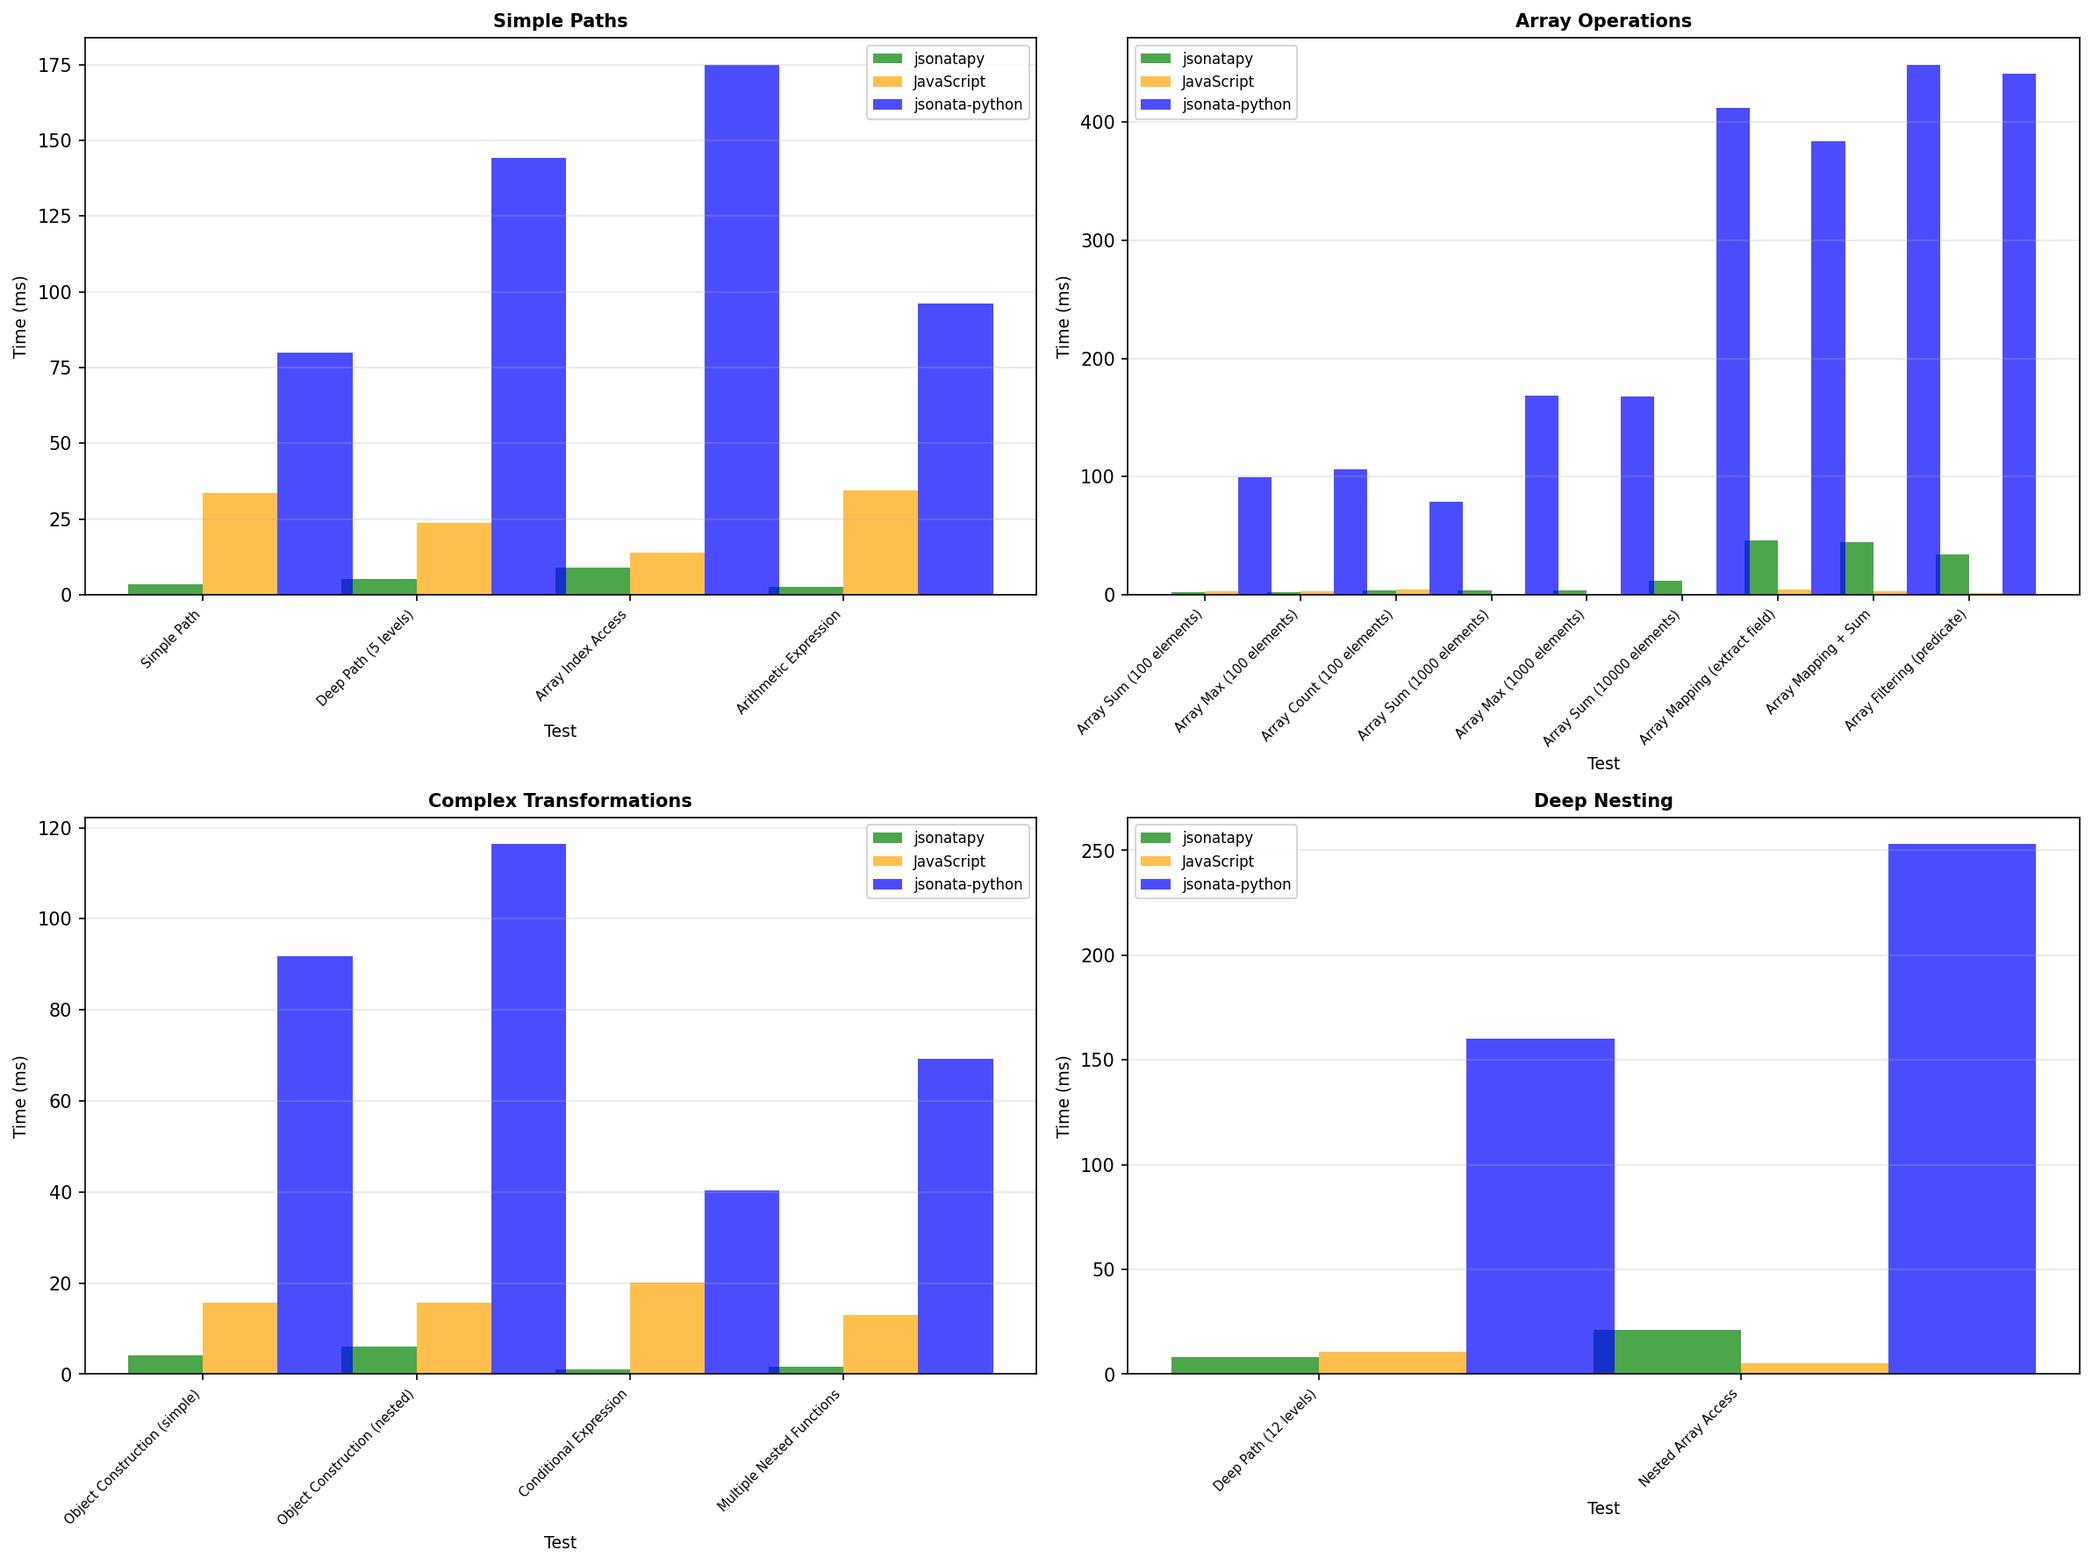
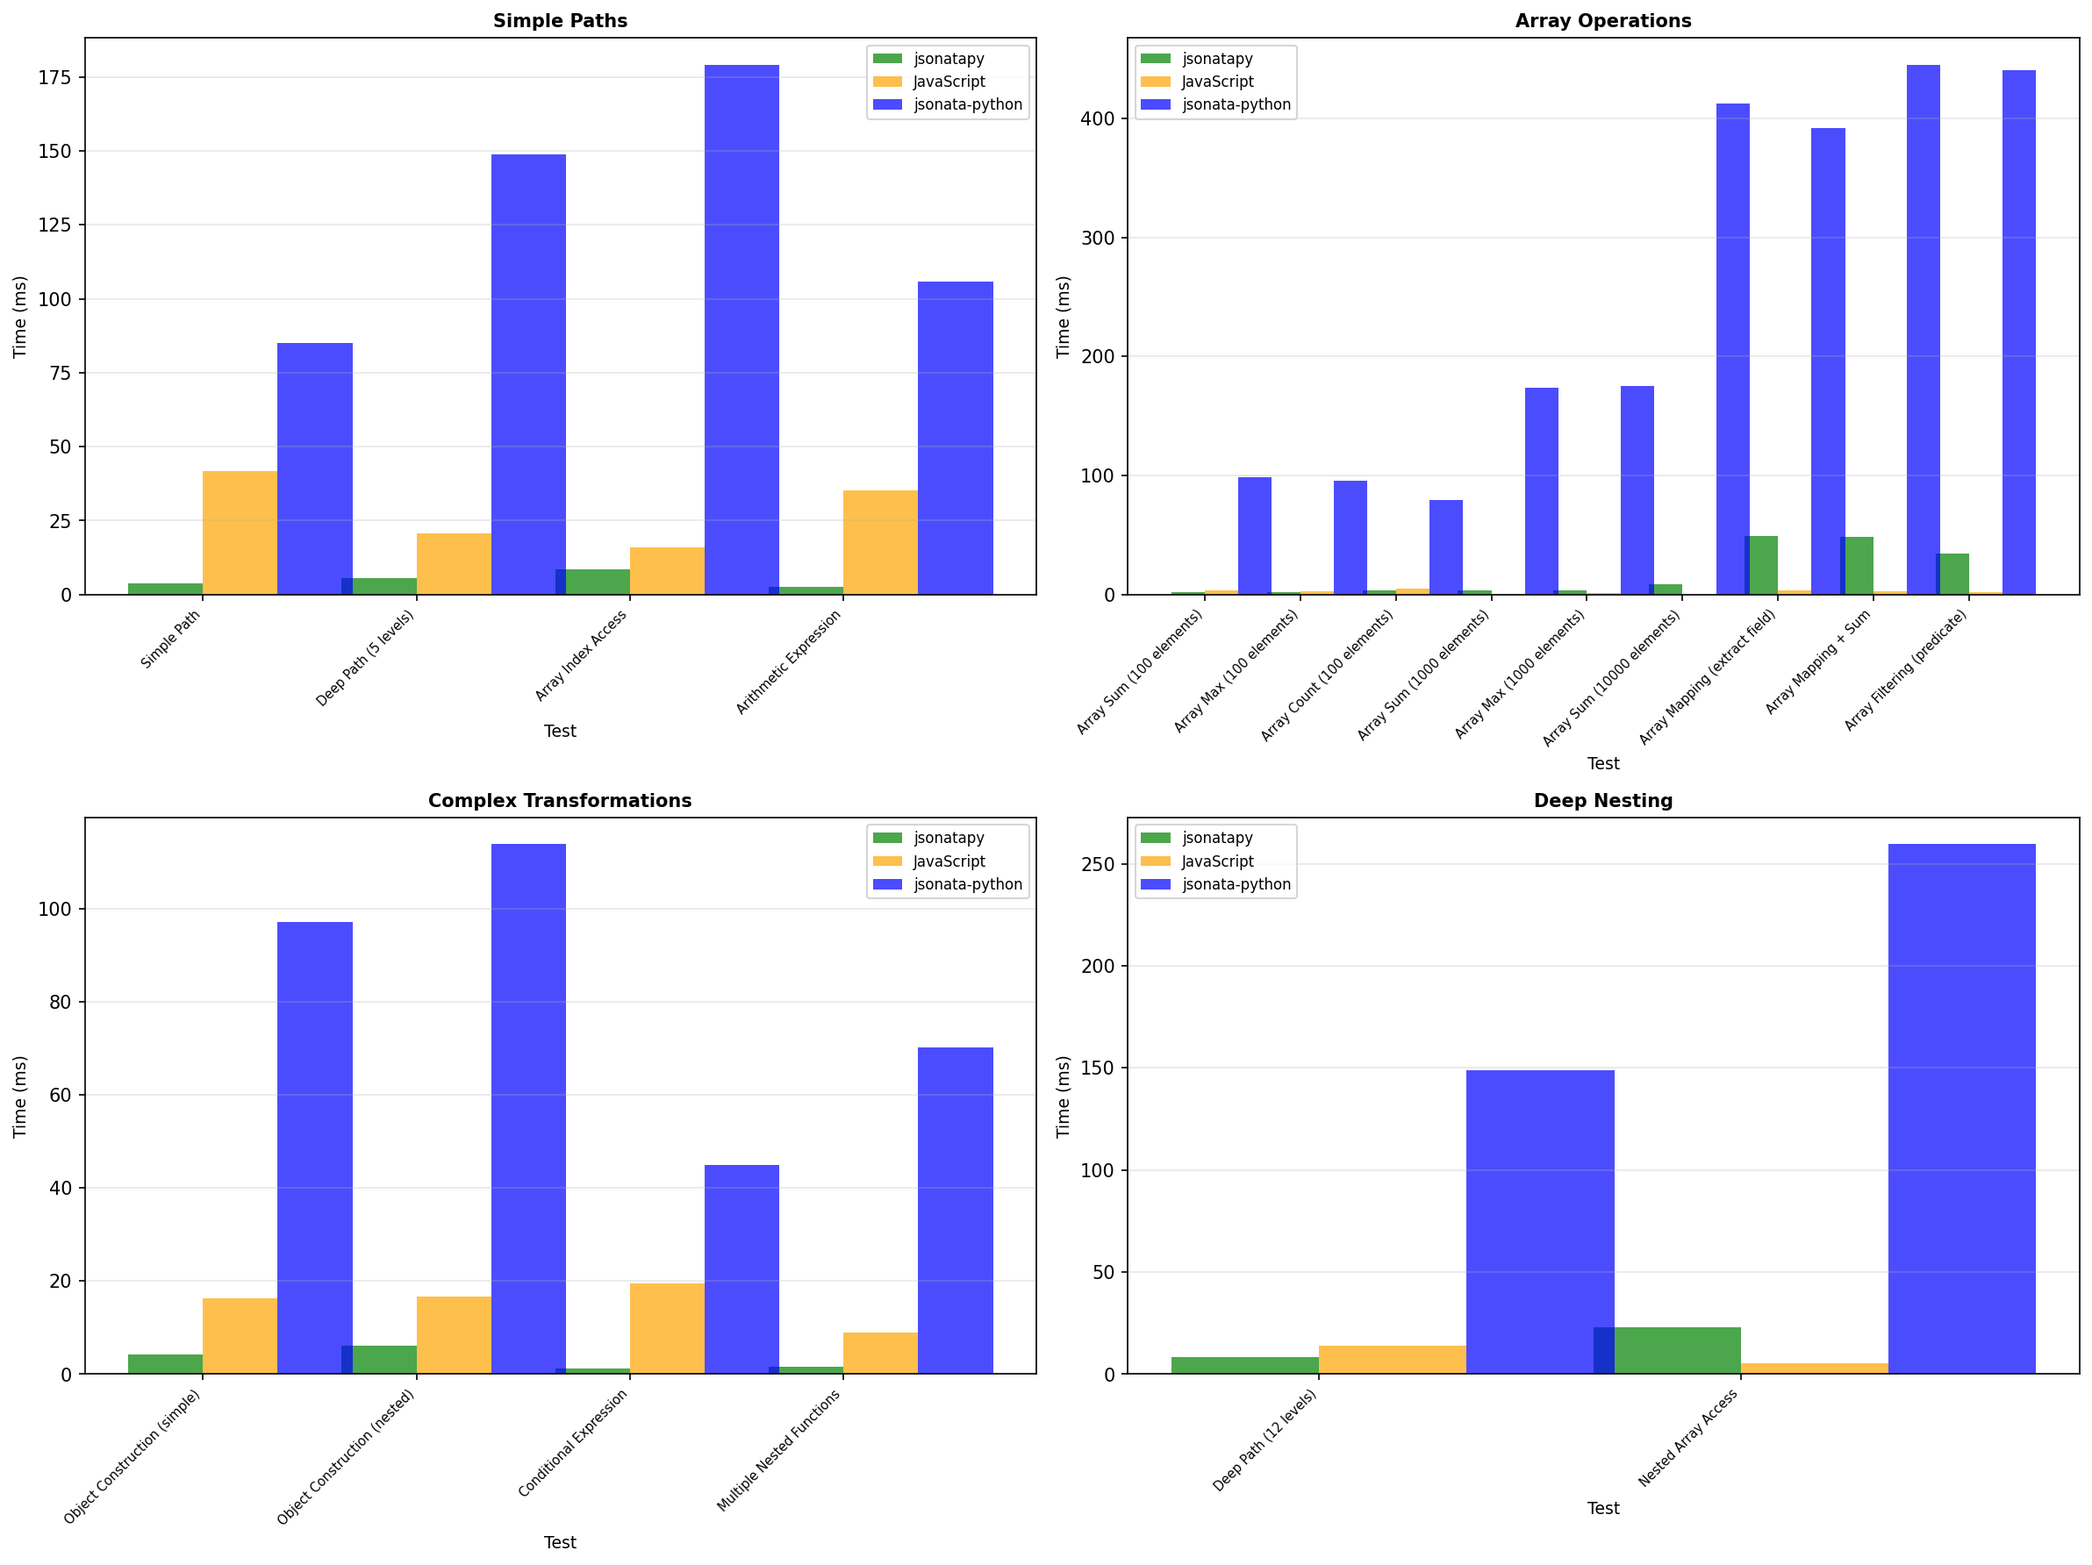
docs: Update benchmarks and docs with VM-enabled results
Re-ran full benchmark suite with the bytecode VM now active in the Python
path. Updates performance.md with new measured values, and adjusts summary
claims in README.md and docs/index.md to match.

Key changes vs previous run:
- Higher-Order Functions: 2.0x slower → ~1x equal ($reduce is now 2x faster)
- Deep Nesting: 1.3x slower → ~1x equal
- Array Operations: 1.9x slower → 1.7x slower (slight improvement)
- Realistic Workload: 27x slower → 40x slower (JS timing variance, not regression)
- Max speedup: 18.5x → 16.8x (conditional expression)

diff --git a/docs/performance.md b/docs/performance.md
@@ -6,8 +6,8 @@ jsonatapy is a high-performance Rust implementation of JSONata with Python bindi
 
 | Implementation | Language | Version | Description |
 |----------------|----------|---------|-------------|
-| **jsonatapy** | Rust + Python | 2.1.0 | This project (compiled Rust extension via PyO3) |
-| **jsonatapy** (rust-only) | Rust + Python | 2.1.0 | Same library, JSON string I/O path (bypasses Python object conversion) |
+| **jsonatapy** | Rust + Python | 2.1.2 | This project (compiled Rust extension via PyO3) |
+| **jsonatapy** (rust-only) | Rust + Python | 2.1.2 | Same library, JSON string I/O path (bypasses Python object conversion) |
 | **jsonata-js** | JavaScript | 2.1.0 | Reference implementation (Node.js v24.13.1) |
 | **jsonata-python** | Python | 0.6.1 | Pure Python implementation |
 | **jsonata-rs** | Rust | 0.3 | Pure Rust implementation (CLI benchmark, no Python overhead) |
@@ -18,13 +18,13 @@ Benchmarks run on 2026-02-21.
 
 | Category | jsonatapy vs JS |
 |----------|----------------|
-| Simple Paths | **7.4x faster** |
-| Array Operations | 1.9x slower |
-| Complex Transformations | **8.3x faster** |
-| Deep Nesting | 1.3x slower |
-| String Operations | **7.0x faster** |
-| Higher-Order Functions | 2.0x slower |
-| Realistic Workload | 26.7x slower |
+| Simple Paths | **7.5x faster** |
+| Array Operations | 1.7x slower |
+| Complex Transformations | **7.2x faster** |
+| Deep Nesting | ~1x (roughly equal) |
+| String Operations | **6.8x faster** |
+| Higher-Order Functions | ~1x (roughly equal) |
+| Realistic Workload | 40x slower |
 
 ## Detailed Results
 
@@ -32,100 +32,100 @@ Benchmarks run on 2026-02-21.
 
 | Operation | Data Size | jsonatapy | jsonatapy (rust) | jsonata-js | jsonata-python | jsonata-rs | vs JS |
 |-----------|-----------|-----------|------------------|------------|----------------|------------|-------|
-| Simple Path | tiny | 3.418 | 4.861 | 33.450 | 79.845 | 69.655 | **9.8x faster** |
-| Deep Path (5 levels) | tiny | 5.267 | 6.676 | 23.720 | 144.328 | 89.320 | **4.5x faster** |
-| Array Index Access | 100 elements | 8.875 | 16.370 | 13.900 | 175.037 | 108.928 | **1.6x faster** |
-| Arithmetic Expression | tiny | 2.477 | 4.368 | 34.290 | 96.192 | 63.679 | **13.8x faster** |
+| Simple Path | tiny | 3.920 | 4.879 | 41.820 | 84.969 | 69.028 | **10.7x faster** |
+| Deep Path (5 levels) | tiny | 5.456 | 6.579 | 20.550 | 148.894 | 83.602 | **3.8x faster** |
+| Array Index Access | 100 elements | 8.572 | 18.200 | 16.030 | 179.115 | 111.016 | **1.9x faster** |
+| Arithmetic Expression | tiny | 2.591 | 4.760 | 35.360 | 105.717 | 63.545 | **13.7x faster** |
 
 ### Array Operations
 
 | Operation | Data Size | jsonatapy | jsonatapy (rust) | jsonata-js | jsonata-python | jsonata-rs | vs JS |
 |-----------|-----------|-----------|------------------|------------|----------------|------------|-------|
-| Array Sum (100 elements) | 100 elements | 1.921 | 3.446 | 2.700 | 99.382 | 22.349 | **1.4x faster** |
-| Array Max (100 elements) | 100 elements | 2.009 | 3.560 | 2.750 | 105.869 | 21.035 | **1.4x faster** |
-| Array Count (100 elements) | 100 elements | 3.605 | 6.585 | 4.290 | 78.911 | 40.881 | **1.2x faster** |
-| Array Sum (1000 elements) | 1000 elements | 3.703 | 6.153 | 0.930 | 168.281 | 36.927 | 4.0x slower |
-| Array Max (1000 elements) | 1000 elements | 3.336 | 5.551 | 0.910 | 167.937 | 30.045 | 3.7x slower |
-| Array Sum (10000 elements) | 10000 elements | 11.906 | 16.955 | 0.090 | 412.132 | 84.302 | 132.3x slower |
-| Array Mapping (extract field) | 100 objects | 46.030 | 47.858 | 4.430 | 383.882 | 258.456 | 10.4x slower |
-| Array Mapping + Sum | 100 objects | 44.196 | 47.854 | 2.690 | 448.681 | 261.346 | 16.4x slower |
-| Array Filtering (predicate) | 100 objects | 33.973 | 28.789 | 1.660 | 440.762 | 121.827 | 20.5x slower |
+| Array Sum (100 elements) | 100 elements | 1.992 | 3.520 | 3.440 | 98.708 | 23.450 | **1.7x faster** |
+| Array Max (100 elements) | 100 elements | 2.033 | 3.590 | 2.570 | 95.782 | 21.002 | **1.3x faster** |
+| Array Count (100 elements) | 100 elements | 3.480 | 6.600 | 5.150 | 79.678 | 40.763 | **1.5x faster** |
+| Array Sum (1000 elements) | 1000 elements | 3.370 | 6.670 | 0.950 | 173.571 | 29.640 | 3.5x slower |
+| Array Max (1000 elements) | 1000 elements | 3.359 | 5.550 | 1.260 | 175.454 | 31.833 | 2.7x slower |
+| Array Sum (10000 elements) | 10000 elements | 8.790 | 14.220 | 0.090 | 412.474 | 89.195 | 97.7x slower |
+| Array Mapping (extract field) | 100 objects | 49.387 | 47.910 | 3.690 | 391.485 | 267.298 | 13.4x slower |
+| Array Mapping + Sum | 100 objects | 48.531 | 48.100 | 2.530 | 445.111 | 268.614 | 19.2x slower |
+| Array Filtering (predicate) | 100 objects | 34.277 | 29.890 | 1.770 | 440.502 | 123.324 | 19.4x slower |
 
 ### Complex Transformations
 
 | Operation | Data Size | jsonatapy | jsonatapy (rust) | jsonata-js | jsonata-python | jsonata-rs | vs JS |
 |-----------|-----------|-----------|------------------|------------|----------------|------------|-------|
-| Object Construction (simple) | tiny | 4.104 | 4.618 | 15.720 | 91.767 | 37.249 | **3.8x faster** |
-| Object Construction (nested) | tiny | 6.143 | 6.059 | 15.660 | 116.394 | 44.571 | **2.5x faster** |
-| Conditional Expression | tiny | 1.085 | 1.808 | 20.090 | 40.364 | 30.020 | **18.5x faster** |
-| Multiple Nested Functions | tiny | 1.596 | 2.211 | 12.970 | 69.301 | 30.505 | **8.1x faster** |
+| Object Construction (simple) | tiny | 4.148 | 4.390 | 16.290 | 97.056 | 40.211 | **3.9x faster** |
+| Object Construction (nested) | tiny | 6.063 | 6.990 | 16.680 | 113.821 | 39.687 | **2.8x faster** |
+| Conditional Expression | tiny | 1.161 | 1.840 | 19.500 | 44.838 | 30.815 | **16.8x faster** |
+| Multiple Nested Functions | tiny | 1.654 | 2.140 | 8.890 | 70.163 | 30.375 | **5.4x faster** |
 
 ### Deep Nesting
 
 | Operation | Data Size | jsonatapy | jsonatapy (rust) | jsonata-js | jsonata-python | jsonata-rs | vs JS |
 |-----------|-----------|-----------|------------------|------------|----------------|------------|-------|
-| Deep Path (12 levels) | 12 levels | 8.188 | 9.465 | 10.770 | 160.139 | 66.444 | **1.3x faster** |
-| Nested Array Access | 4-level nested arrays | 21.349 | 32.423 | 5.090 | 252.984 | 128.685 | 4.2x slower |
+| Deep Path (12 levels) | 12 levels | 8.189 | 10.020 | 13.820 | 148.715 | 68.938 | **1.7x faster** |
+| Nested Array Access | 4-level nested arrays | 22.936 | 31.850 | 5.550 | 259.617 | 136.763 | 4.1x slower |
 
 ### String Operations
 
 | Operation | Data Size | jsonatapy | jsonatapy (rust) | jsonata-js | jsonata-python | jsonata-rs | vs JS |
 |-----------|-----------|-----------|------------------|------------|----------------|------------|-------|
-| String Uppercase | tiny | 2.637 | 3.903 | 19.710 | 94.128 | 59.715 | **7.5x faster** |
-| String Lowercase | tiny | 2.616 | 3.845 | 19.950 | 93.876 | 66.215 | **7.6x faster** |
-| String Length | tiny | 2.560 | 3.965 | 20.120 | 93.868 | 59.884 | **7.9x faster** |
-| String Concatenation | tiny | 2.653 | 3.187 | 9.030 | 99.441 | 32.199 | **3.4x faster** |
-| String Substring | tiny | 2.114 | 2.803 | 12.160 | 65.012 | 30.429 | **5.8x faster** |
-| String Contains | tiny | 1.220 | 2.087 | 12.420 | 55.135 | 30.694 | **10.2x faster** |
+| String Uppercase | tiny | 2.746 | 4.000 | 19.920 | 96.747 | 58.618 | **7.3x faster** |
+| String Lowercase | tiny | 2.922 | 4.180 | 22.210 | 92.172 | 60.825 | **7.6x faster** |
+| String Length | tiny | 2.362 | 3.810 | 21.430 | 104.077 | 60.300 | **9.1x faster** |
+| String Concatenation | tiny | 2.674 | 3.250 | 10.220 | 98.697 | 34.475 | **3.8x faster** |
+| String Substring | tiny | 1.958 | 2.790 | 12.380 | 67.992 | 33.786 | **6.3x faster** |
+| String Contains | tiny | 1.391 | 2.280 | 9.100 | 60.987 | 30.889 | **6.5x faster** |
 
 ### Higher-Order Functions
 
 | Operation | Data Size | jsonatapy | jsonatapy (rust) | jsonata-js | jsonata-python | jsonata-rs | vs JS |
 |-----------|-----------|-----------|------------------|------------|----------------|------------|-------|
-| $map with lambda | 100 elements | 1.787 | 2.083 | 0.850 | 114.098 | 7.153 | 2.1x slower |
-| $filter with lambda | 100 elements | 1.636 | 1.900 | 0.990 | 103.713 | 6.476 | 1.7x slower |
-| $reduce with lambda | 100 elements | 2.044 | 2.364 | 0.850 | 100.455 | 7.090 | 2.4x slower |
+| $map with lambda | 100 elements | 1.874 | 2.090 | 0.820 | 107.861 | 7.258 | 2.3x slower |
+| $filter with lambda | 100 elements | 1.612 | 1.970 | 0.960 | 111.306 | 6.770 | 1.7x slower |
+| $reduce with lambda | 100 elements | 2.153 | 2.510 | 4.300 | 105.463 | 8.597 | **2.0x faster** |
 
 ### Realistic Workload
 
 | Operation | Data Size | jsonatapy | jsonatapy (rust) | jsonata-js | jsonata-python | jsonata-rs | vs JS |
 |-----------|-----------|-----------|------------------|------------|----------------|------------|-------|
-| Filter by category | 100 products | 78.289 | 74.613 | 1.880 | 734.265 | 384.977 | 41.6x slower |
-| Calculate total value | 100 products | 71.979 | 73.042 | 1.750 | 652.558 | 372.265 | 41.1x slower |
-| Complex transformation | 100 products | 42.814 | 36.595 | 4.200 | 540.489 | 161.282 | 10.2x slower |
-| Group by category (aggregate) | 100 products | 43.870 | 47.985 | 1.180 | 618.170 | 155.178 | 37.2x slower |
-| Top rated products | 100 products | 17.891 | 15.873 | 0.250 | 199.836 | 76.446 | 71.6x slower |
+| Filter by category | 100 products | 76.332 | 76.670 | 1.980 | 723.716 | 407.229 | 38.6x slower |
+| Calculate total value | 100 products | 71.727 | 68.420 | 1.440 | 661.389 | 401.337 | 49.8x slower |
+| Complex transformation | 100 products | 40.264 | 38.010 | 1.190 | 550.732 | 166.103 | 33.8x slower |
+| Group by category (aggregate) | 100 products | 44.896 | 42.990 | 1.700 | 643.883 | 156.071 | 26.4x slower |
+| Top rated products | 100 products | 18.861 | 16.450 | 0.200 | 191.795 | 78.980 | 94.3x slower |
 
 ### Path Comparison
 
 | Operation | jsonatapy (ms) | Iterations |
 |-----------|---------------|------------|
-| Filter by category (data handle) | 12.501 | 500 |
-| Filter by category (data→json) | 6.803 | 500 |
-| Complex transformation (data handle) | 29.559 | 500 |
-| Complex transformation (data→json) | 26.926 | 500 |
-| Aggregate (data handle) | 4.506 | 500 |
-| Aggregate (data→json) | 4.317 | 500 |
+| Filter by category (data handle) | 12.965 | 500 |
+| Filter by category (data→json) | 7.236 | 500 |
+| Complex transformation (data handle) | 29.590 | 500 |
+| Complex transformation (data→json) | 26.663 | 500 |
+| Aggregate (data handle) | 4.600 | 500 |
+| Aggregate (data→json) | 4.657 | 500 |
 
 ## Performance Characteristics
 
 ### Where jsonatapy excels
 
-jsonatapy is the **fastest Python JSONata implementation by a wide margin** — 50–150x faster than jsonata-python across all categories. It is also **faster than jsonata-rs** (the leading pure-Rust JSONata implementation) for most workloads, demonstrating that the compilation layer and bytecode VM pay off even without Python overhead.
+jsonatapy is the **fastest Python JSONata implementation by a wide margin** — ~10–65x faster than jsonata-python across all categories. It is also **faster than jsonata-rs** (the leading pure-Rust JSONata implementation) for most workloads, demonstrating that the compilation layer and bytecode VM pay off even without Python overhead.
 
 For **pure expression evaluation** — simple paths, arithmetic, conditionals, string operations, and complex transformations — jsonatapy consistently beats the JavaScript reference implementation running on V8:
 
-- Simple Paths (7.4x faster)
-- Complex Transformations (8.3x faster)
-- String Operations (7.0x faster)
+- Simple Paths (7.5x faster)
+- Complex Transformations (7.2x faster)
+- String Operations (6.8x faster)
 
 ### Where JavaScript is faster
 
 For workloads that iterate over large arrays of Python dicts, the dominant cost is converting Python objects to Rust values on every `evaluate()` call — roughly 1µs per field, or ~130µs for 100 objects with 5 fields each. This is a property of the Python/C extension model, not of jsonatapy specifically: any Rust or C extension must pay this cost when reading Python dict data.
 
-- Array Operations (1.9x slower overall; aggregates on 100-element arrays are competitive)
-- Higher-Order Functions (2.0x slower)
-- Realistic Workload (26.7x slower on full-conversion path)
+- Array Operations (1.7x slower overall; aggregates on 100-element arrays are competitive)
+- Higher-Order Functions (~1x overall; $reduce is faster, $map/$filter are ~2x slower)
+- Realistic Workload (40x slower on full-conversion path)
 
 V8's JIT compiler eliminates equivalent overhead through type specialisation and loop vectorisation. Without a JIT, this gap is irreducible for the `evaluate(dict)` call path.
 

diff --git a/README.md b/README.md
@@ -129,12 +129,12 @@ the JavaScript reference implementation for most pure expression workloads:
 
 | Category | vs JavaScript (V8) | vs jsonata-python |
 |----------|--------------------|-------------------|
-| Simple paths | **4–14x faster** | ~25x faster |
-| Conditionals | **18x faster** | ~40x faster |
-| String operations | **3–10x faster** | ~30–45x faster |
-| Complex transformations | **3–18x faster** | ~20–45x faster |
-| Higher-order functions | ~2x slower | ~50–65x faster |
-| Array-heavy workloads | varies | ~10–65x faster |
+| Simple paths | **2–14x faster** | ~20–40x faster |
+| Conditionals | **17x faster** | ~40x faster |
+| String operations | **4–9x faster** | ~30–45x faster |
+| Complex transformations | **3–17x faster** | ~20–40x faster |
+| Higher-order functions | ~1x (roughly equal) | ~50–70x faster |
+| Array-heavy workloads | varies | ~10–50x faster |
 
 ### The Python boundary
 

diff --git a/docs/index.md b/docs/index.md
@@ -55,7 +55,7 @@ let result = Evaluator::new().evaluate(&ast, &data)?;
 ## Performance highlights
 
 - **1258/1258** JSONata reference tests passing
-- **up to 18x faster** than the JavaScript reference implementation for pure expression workloads
+- **up to 17x faster** than the JavaScript reference implementation for pure expression workloads
 - **~40x faster** than jsonata-rs (the next pure-Rust JSONata implementation)
 - **~10–65x faster** than jsonata-python across all categories
 
